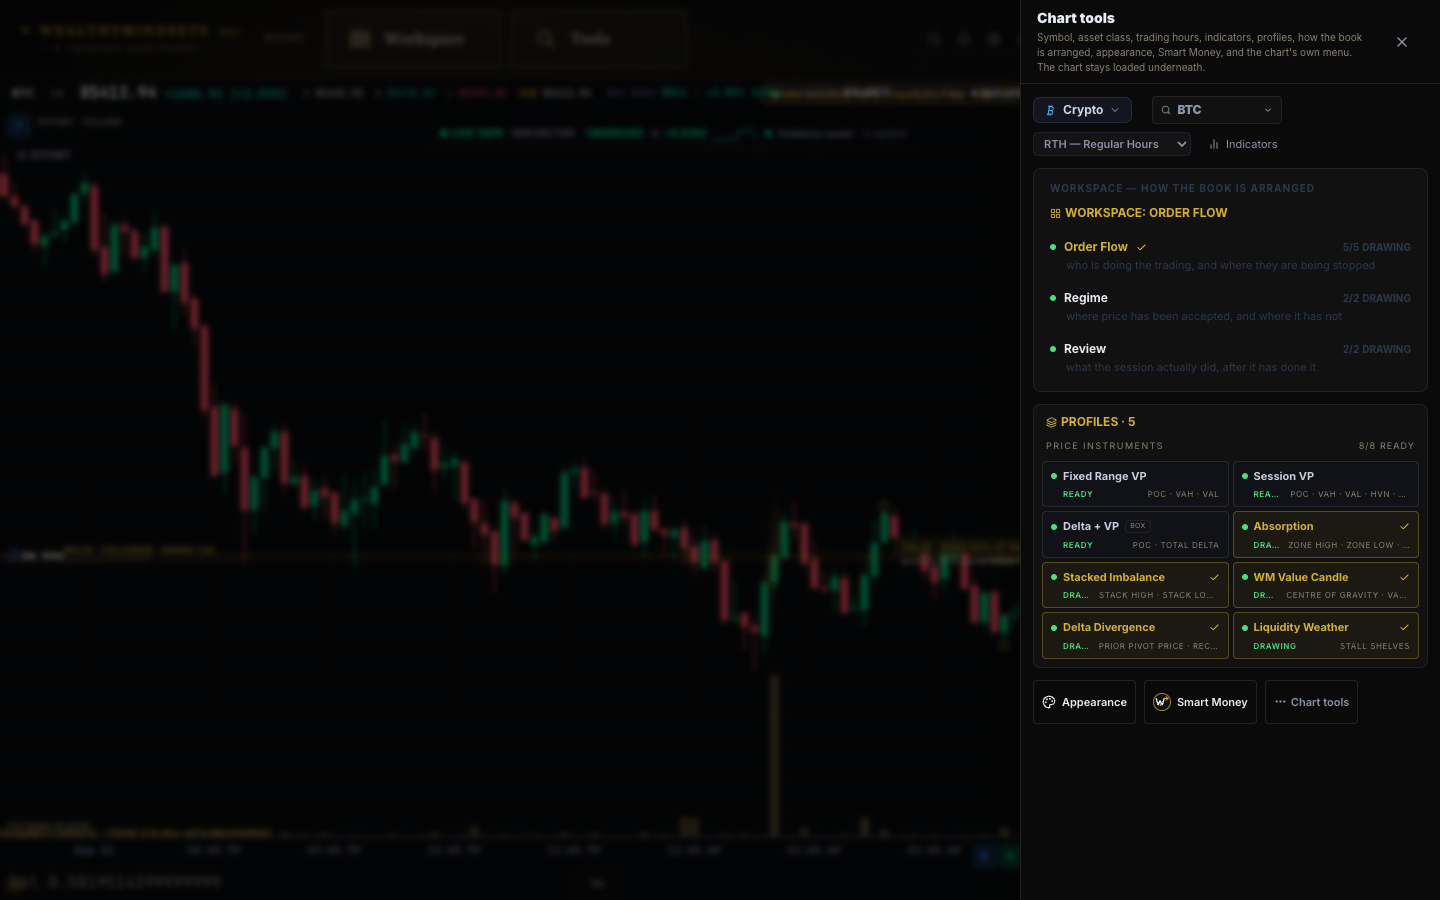
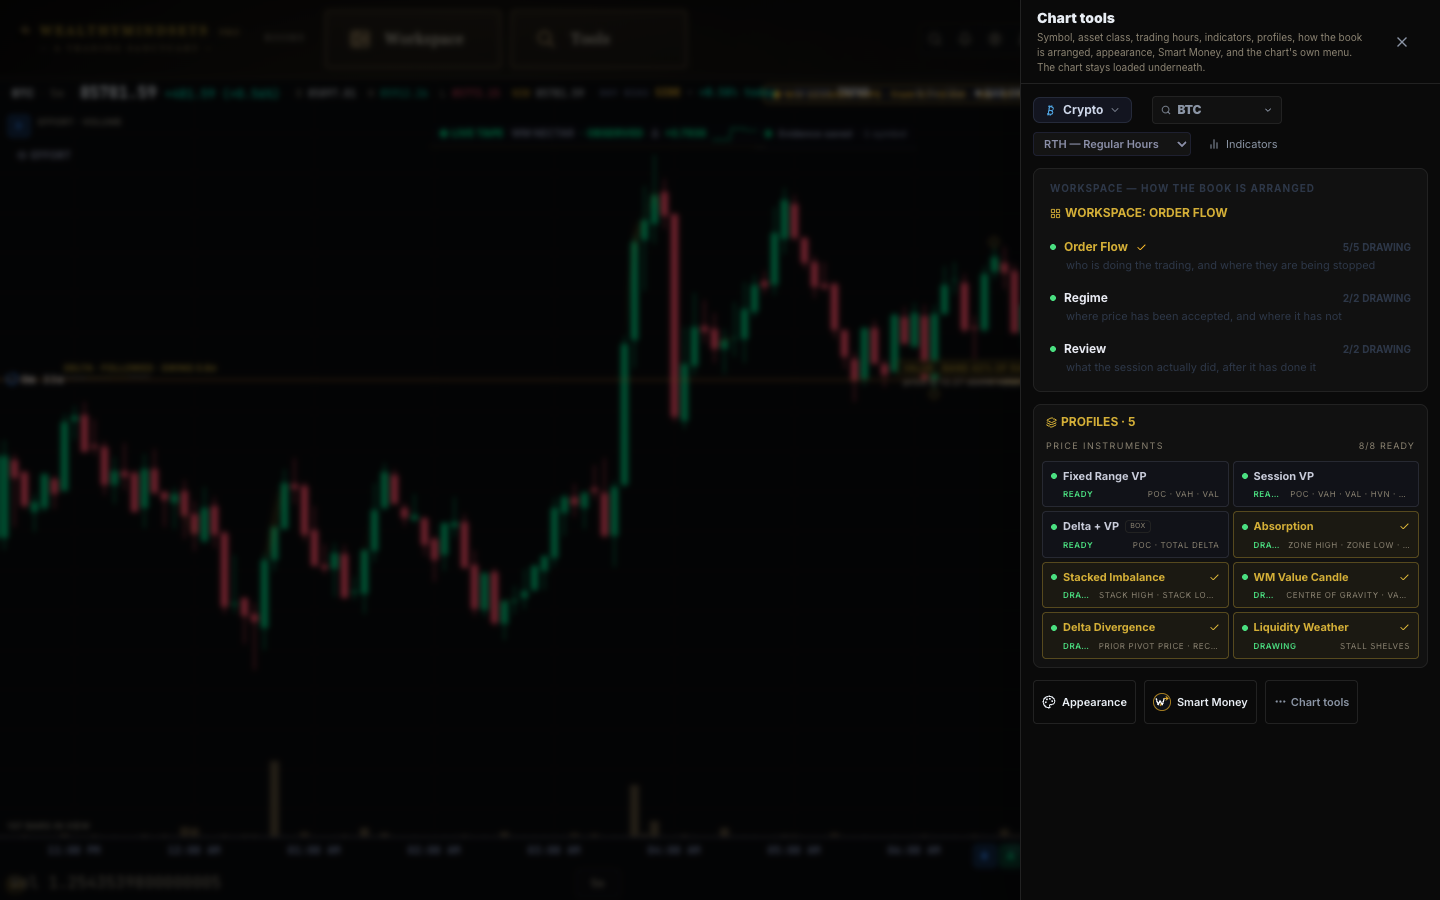
Canon comparator: re-shoot all slots from serving b6d7fe00 + add WORKSPACE HAND
The three existing slots all shoot the chart, so the arrangement half of the
room — the subject of canon frames F24 and G02 — was never in the side-by-side.
The new slot shoots the Workspace hand open over the live market: Clean, Order
Flow, Regime, Review, Draw, Replay, market still visible behind it.

MEASURED on prod b6d7fe00 (scratchpad/probe-three-desks.mjs), pressing each
desk from the WORKSPACE rail writes exactly the switches ARRANGEMENT_SPECS
names, and the camera survives all three (chartCount 1):
  REGIME     → fixedVP+sessionVP true, all five order-flow readings false
  ORDER FLOW → the exact inverse
  REVIEW     → sessionVP + absorption true, the rest false
Rail grammar confirmed momentary: aria-pressed ABSENT on all four commands,
present-and-false on the two holdables.

diff --git a/public/canon/index.html b/public/canon/index.html
@@ -28,6 +28,10 @@
   <button data-o="os-latest.png" aria-pressed="true">DEFAULT</button>
   <button data-o="os-latest-tools.png" aria-pressed="false">TOOLS OPEN</button>
   <button data-o="os-latest-w-live.png" aria-pressed="false">W ALIVE · LIVE TAPE</button>
+  <!-- The WORKSPACE hand itself. The other three slots all shoot the chart, so
+       the arrangement half of the room — which is what F24/G02 are ABOUT — was
+       never in the side-by-side at all. -->
+  <button data-o="os-latest-workspace.png" aria-pressed="false">WORKSPACE HAND</button>
   <button id="refresh">REFRESH</button>
   <span id="stamp"></span>
 </header>
